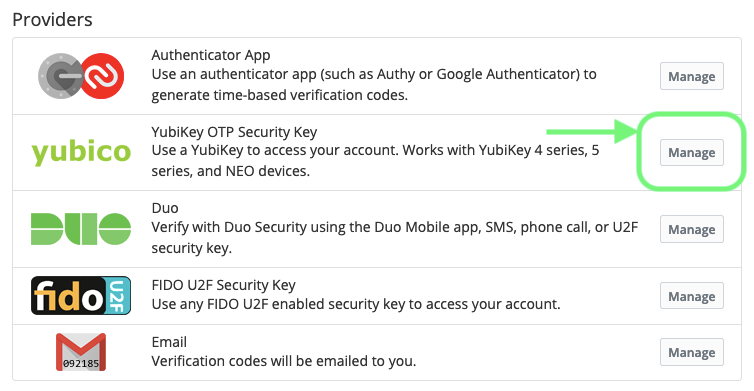
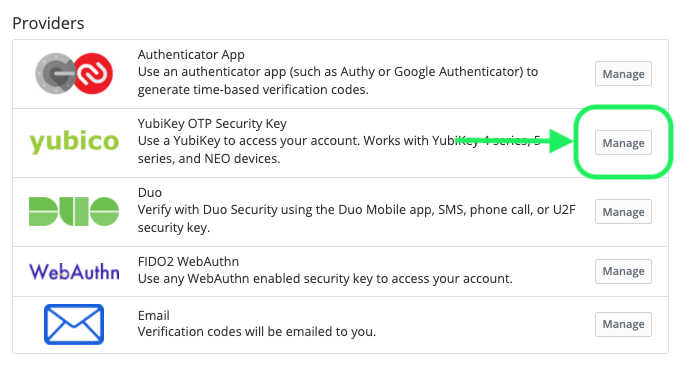
edits for #853

diff --git a/_articles/two-step-login/setup-two-step-login-yubikey.md b/_articles/two-step-login/setup-two-step-login-yubikey.md
@@ -1,6 +1,6 @@
 ---
 layout: article
-title: Two-step Login via YubiKey
+title: Two-step Login via YubiKey OTP
 categories: [two-step-login]
 featured: false
 popular: false
@@ -9,9 +9,11 @@ order: "06"
 description: "This article explains how you can add an extra layer of protection to your Bitwarden Vault by setting up two-step login with a YubiKey."
 ---
 
-Two-step Login using [YubiKey](https://www.yubico.com){:target="\_blank"} is available for Premium users, including members of Paid Organizations (Families, Teams, or Enterprise).
+Two-step Login using [YubiKey](https://www.yubico.com){:target="\_blank"} is available for Premium users, including members of Paid Organizations (Families, Teams, or Enterprise). Any [YubiKey that supports OTP](https://www.yubico.com/products/yubikey-hardware/compare-yubikeys/){:target="_blank"} can be used. This includes all YubiKey 4 and 5 series devices, as well as YubiKey NEO and YubiKey NFC. You can add up to 5 YubiKeys to your account.
 
-Any [YubiKey that supports OTP](https://www.yubico.com/products/yubikey-hardware/compare-yubikeys/){:target="_blank"} can be used. This includes all YubiKey 4 and 5 series devices, as well as YubiKey NEO and YubiKey NFC. You can add up to 5 YubiKeys to your account.
+{% callout success %}
+Most modern YubiKeys, including 5 series keys, support the FIDO2 WebAuthn protocol. If your key supports it, which you can determine using the [YubiKey Manager](https://www.yubico.com/support/download/yubikey-manager/){:target="\_blank"} application, we recommend setting your key up as a FIDO2 WebAuth device by following [these instructions]({{site.baseurl}}/article/setup-two-step-login-fido/#setup-fido2-webauthn).
+{% endcallout %}
 
 ## Setup YubiKey
 
